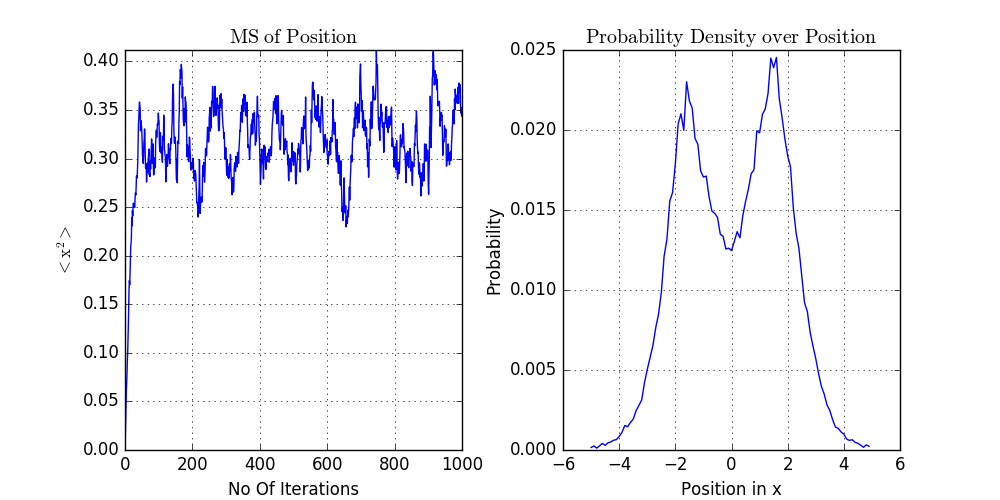
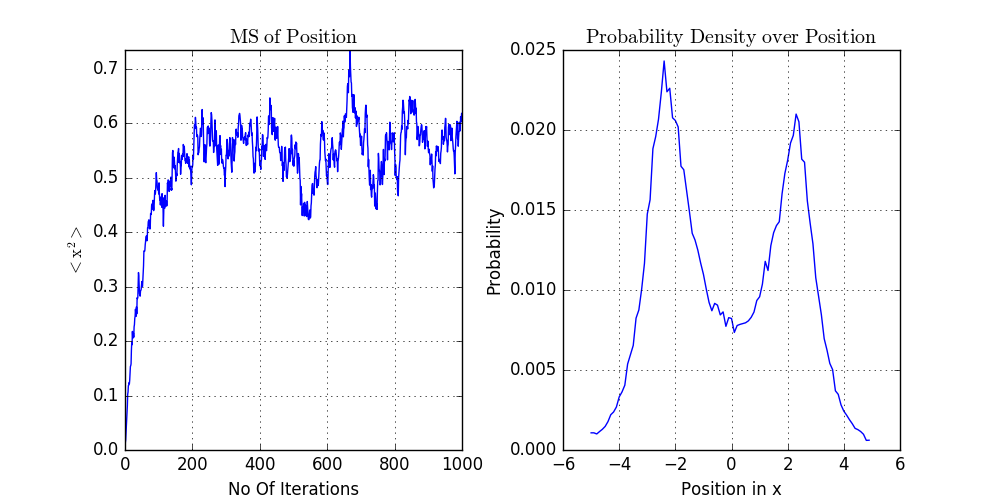
Corrections and Updates

diff --git a/main.py b/main.py
@@ -5,7 +5,7 @@ M = 100 #Number of time slices
 T = 10.0 #Imaginary time period
 a = 0.1 #Lattice Spacing
 mu = 1 #Oscillator Frequency?
-f = 1.75 #Arbitrary Constant? for Anharmonic Oscillator
+f = 2.5 #Arbitrary Constant? for Anharmonic Oscillator
 char = 'c' #Choose Hot = 'h' or Cold = 'c' Start
 thermalize = False #Set True to run Thermalization to pass burn-in phase
 lam = 0.0 #Quartic Coupling Constant - lam = 0 -> Harmonic Oscillator; lam > 0 -> Anharmonic Oscillator

diff --git a/PIMC.py b/PIMC.py
@@ -42,7 +42,7 @@ class Path(object):
         return (self.mu**2)*x + 4*self.lam*x*(x**2-self.f**2)
 
     def K(self,x):
-        return 0.5*(x**2) #Kinetic Energy(KE) with m = 1
+        return 0.5*(x**2)*(1/self.a) #Kinetic Energy(KE) with m = 1
 
     def E(self,x):
         return self.V(x) + (0.5*x*self.DV(x)) # Energy from Virial Theorem - V+(0.5*x*dV/dx)
